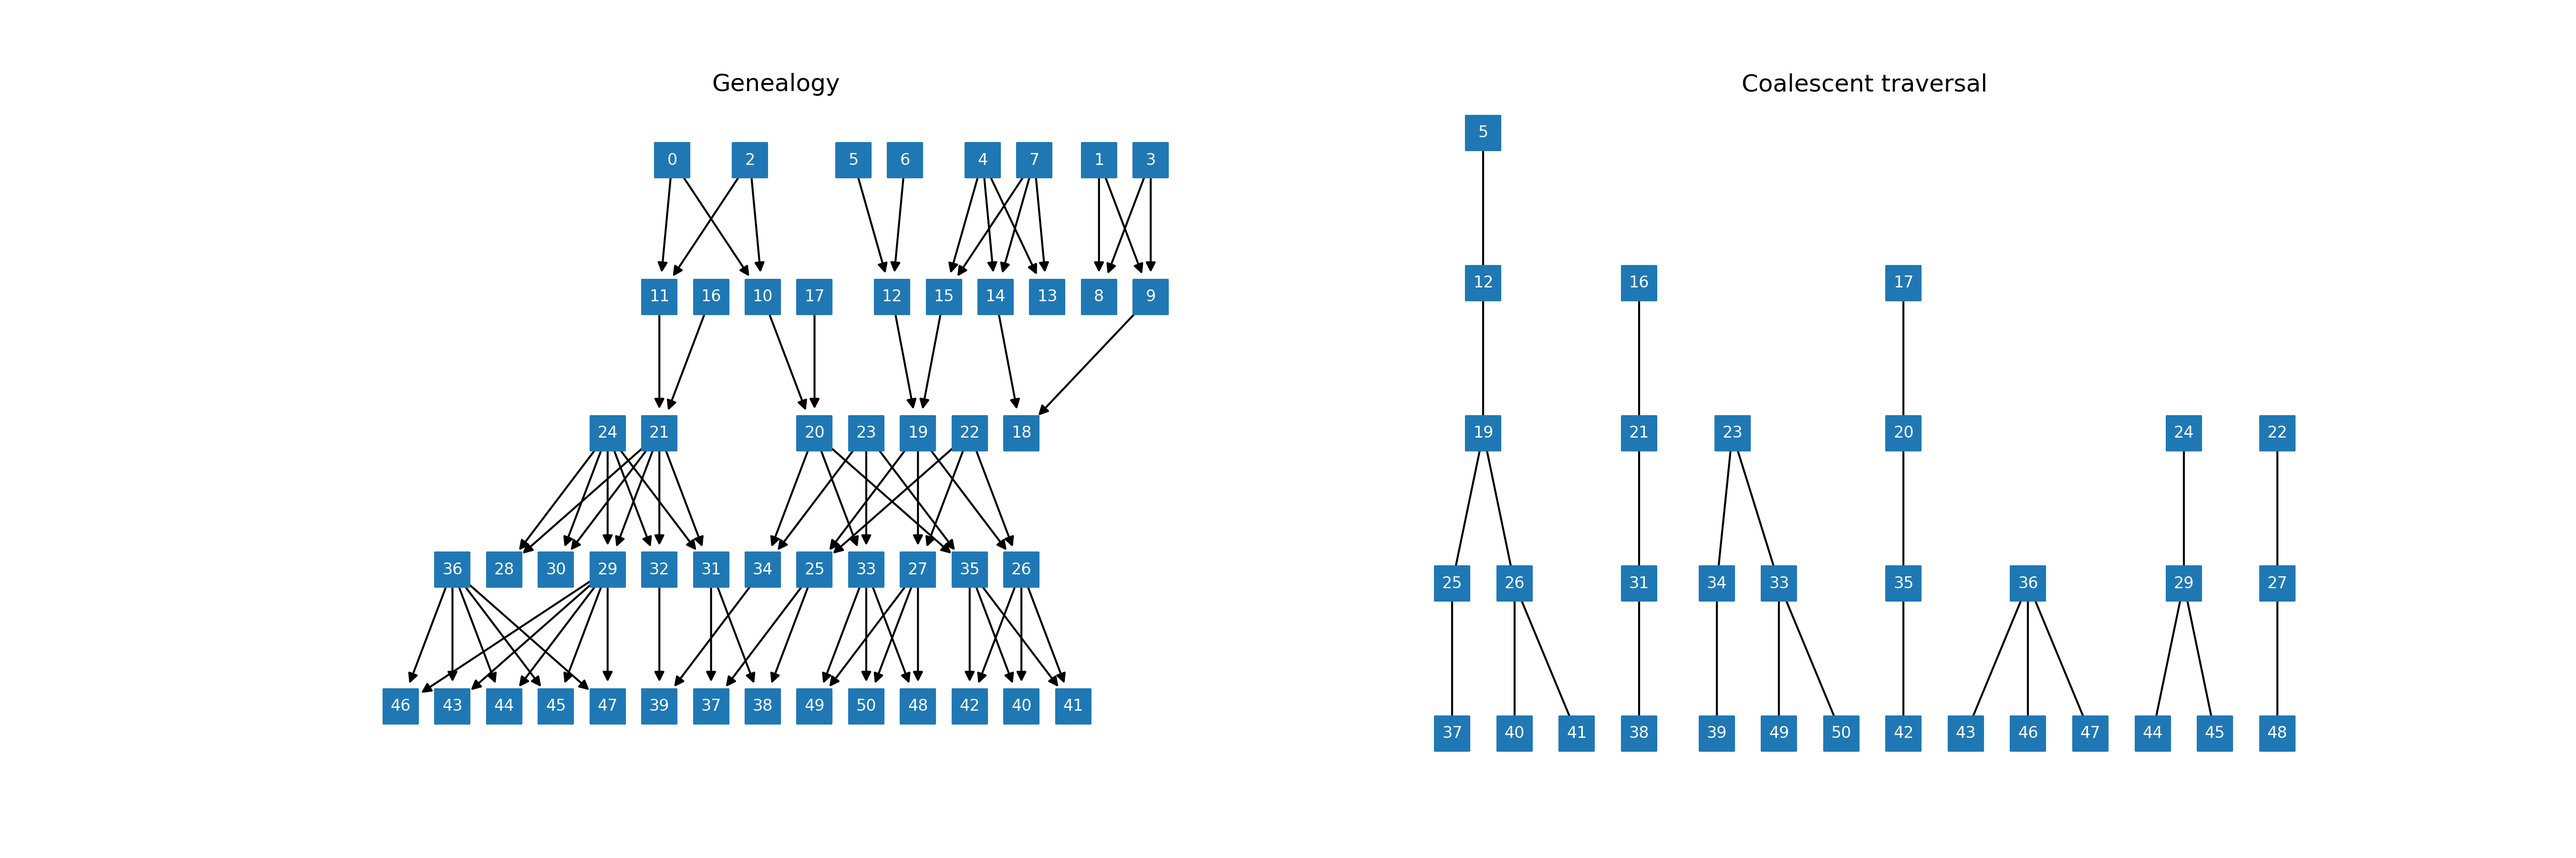
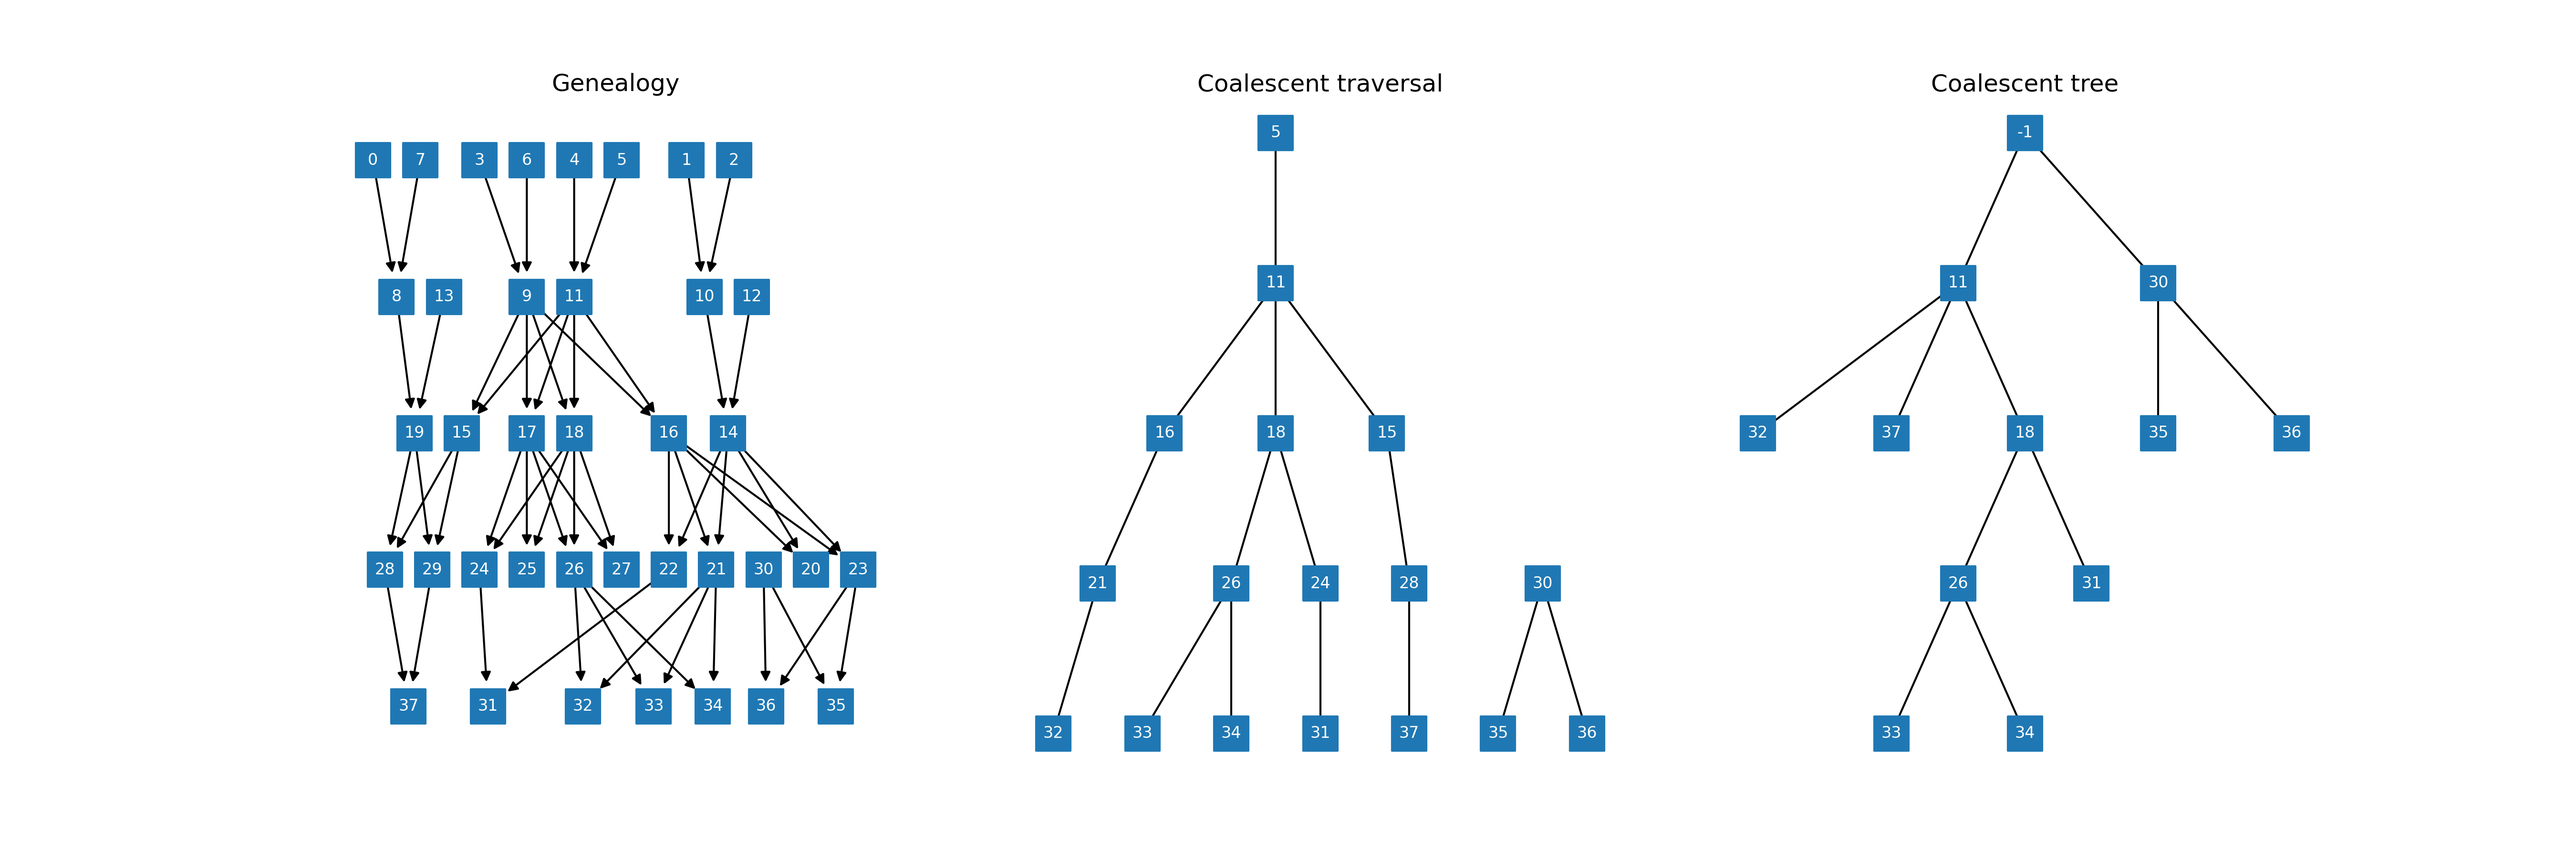
viz example

diff --git a/genealogy_aligner/class_example.py b/genealogy_aligner/class_example.py
@@ -12,13 +12,16 @@ while G.generations < generations:
     G = Genealogy.from_founders(families, generations, avg_children)
     
 T = G.sample_path()
+C = T.to_coalescent_tree()
 
-fig, ax = plt.subplots(ncols=2, figsize=(18, 6))
+fig, ax = plt.subplots(ncols=3, figsize=(18, 6))
 
 G.draw(ax=ax[0])
 ax[0].set_title('Genealogy')
 T.draw(ax=ax[1])
 ax[1].set_title('Coalescent traversal')
+C.draw(ax=ax[2])
+ax[2].set_title('Coalescent tree')
 
-fig.savefig('fig/class_example.png', dpi=300)
+fig.savefig('fig/class_example.svg', dpi=300)
 
